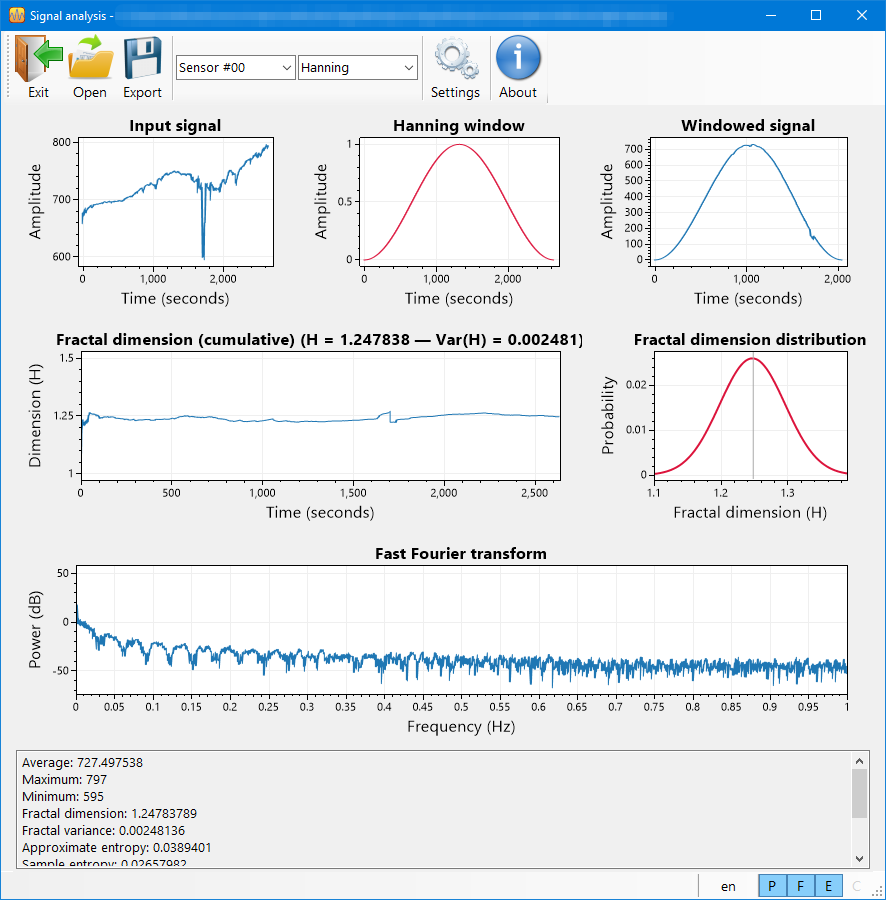
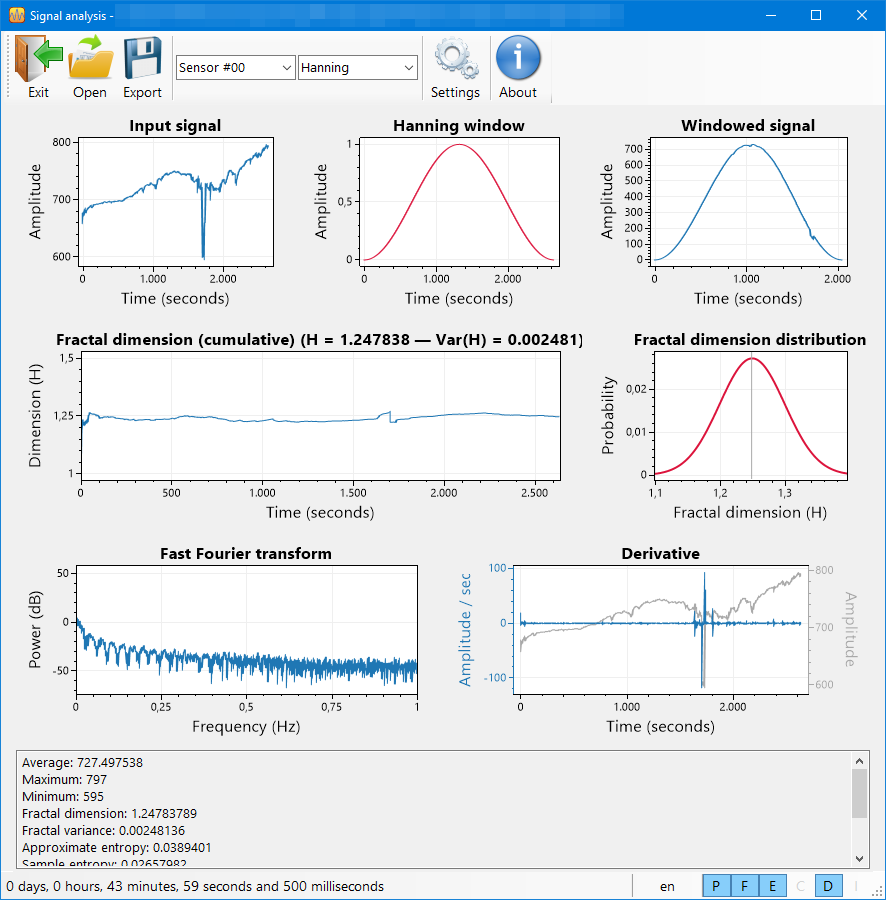
Update computations logic and screenshot

diff --git a/SignalAnalysis/UserInteractionGUI.cs b/SignalAnalysis/UserInteractionGUI.cs
@@ -52,6 +52,13 @@ partial class FrmMain
             {
                 // Data
                 Signal = signalData;
+
+                // Update UI
+                PopulateComboSeries();
+                SetFormTitle(this, openDlg.FileName);
+                UpdateUI_MeasuringTime();
+
+                // Check if computations are needed
                 if (results is not null)
                 {
                     Results = results;
@@ -60,12 +67,22 @@ partial class FrmMain
                         _settings.ComputeIntegration,
                         _settings.ComputeIntegration ? StringResources.IntegrationAlgorithms.Split(", ")[(int)_settings.IntegrationAlgorithm] : string.Empty);
                 }
-
-                // Update UI
-                PopulateComboSeries();
-                SetFormTitle(this, openDlg.FileName);
-                UpdateUI_MeasuringTime();
+                else
+                {
+                    UpdateStatsPlots(stripComboSeries.SelectedIndex,
+                                    deletePreviousResults: true,
+                                    stats: true,
+                                    derivative: _settings.ComputeDerivative,
+                                    integral: _settings.ComputeIntegration,
+                                    fractal: true,
+                                    progressive: _settings.CumulativeDimension,
+                                    entropy: _settings.Entropy,
+                                    fft: true,
+                                    powerSpectra: _settings.PowerSpectra);
+                }
             }
+
+            
 
             // Restore the cursor
             Cursor.Current = cursor;
@@ -177,6 +194,7 @@ partial class FrmMain
             UpdateUI_Language();
 
             UpdateStatsPlots(stripComboSeries.SelectedIndex,
+                deletePreviousResults: false,
                 stats: true,
                 derivative: _settings.ComputeDerivative,
                 integral: _settings.ComputeIntegration,
@@ -223,19 +241,19 @@ partial class FrmMain
                 case "statusStripLabelExPower":
                     _settings.PowerSpectra = label.Checked;
                     //ComboWindow_SelectedIndexChanged(null, EventArgs.Empty);
-                    UpdateStatsPlots(stripComboSeries.SelectedIndex, fft: true, powerSpectra: _settings.PowerSpectra);
+                    //UpdateStatsPlots(stripComboSeries.SelectedIndex, fft: true, powerSpectra: _settings.PowerSpectra);
                     break;
                 case "statusStripLabelExCumulative":
                     _settings.CumulativeDimension = label.Checked;
                     if (_settings.CumulativeDimension)
-                        UpdateStatsPlots(stripComboSeries.SelectedIndex, fractal: true, progressive: _settings.CumulativeDimension);
+                        //UpdateStatsPlots(stripComboSeries.SelectedIndex, fractal: true, progressive: _settings.CumulativeDimension);
                     if (!label.Checked && statsTask is not null && statsTask.Status == TaskStatus.Running)
                         FrmMain_KeyPress(sender, new KeyPressEventArgs((char)Keys.Escape));
                     break;
                 case "statusStripLabelExEntropy":
                     _settings.Entropy = label.Checked;
                     if (_settings.Entropy)
-                        UpdateStatsPlots(stripComboSeries.SelectedIndex, entropy: _settings.Entropy);
+                        //UpdateStatsPlots(stripComboSeries.SelectedIndex, entropy: _settings.Entropy);
                     if (!label.Checked && statsTask is not null && statsTask.Status == TaskStatus.Running)
                         FrmMain_KeyPress(sender, new KeyPressEventArgs((char)Keys.Escape));
                     break;
@@ -276,7 +294,7 @@ partial class FrmMain
                     _settings.ComputeDerivative = label.Checked;
                     if (_settings.ComputeDerivative)
                     {
-                        UpdateStatsPlots(stripComboSeries.SelectedIndex, derivative: _settings.ComputeDerivative);
+                        //UpdateStatsPlots(stripComboSeries.SelectedIndex, derivative: _settings.ComputeDerivative);
                     }
                     else
                     {
@@ -286,10 +304,83 @@ partial class FrmMain
                     break;
                 case "statusStripLabelExIntegration":
                     _settings.ComputeIntegration = label.Checked;
-                    UpdateStatsPlots(stripComboSeries.SelectedIndex, integral: _settings.ComputeIntegration);
+                    //UpdateStatsPlots(stripComboSeries.SelectedIndex, integral: _settings.ComputeIntegration);
                     break;
             }
+
+            UpdateStatsPlots(stripComboSeries.SelectedIndex,
+                        deletePreviousResults: false,
+                        stats: true,
+                        derivative: _settings.ComputeDerivative,
+                        integral: _settings.ComputeIntegration,
+                        fractal: true,
+                        progressive: _settings.CumulativeDimension,
+                        entropy: _settings.Entropy,
+                        fft: true,
+                        powerSpectra: _settings.PowerSpectra);
         }
     }
 
+    private void PopulateComboSeries(params string[] values)
+    {
+        stripComboSeries.Items.Clear();
+        if (values.Length != 0)
+        {
+            stripComboSeries.Items.AddRange(values);
+            stripComboSeries.Text = values[0];
+        }
+        else
+        {
+            stripComboSeries.Items.AddRange(Signal.SeriesLabels);
+            stripComboSeries.Text = Signal.SeriesLabels[0];
+        }
+
+    }
+
+    private void ComboSeries_SelectionChangeCommitted(object? sender, EventArgs e)
+    {
+        // Move the focus away in order to deselect the text
+        //this.tableLayoutPanel1.Focus();
+
+        if (Signal.Data.Length == 0) return;
+
+        //statusStripLabelExEntropy.Checked = false;
+        //_settings.Entropy = false;
+
+        // Update stats and plots
+        UpdateStatsPlots(stripComboSeries.SelectedIndex,
+            deletePreviousResults: false,
+            stats: true,
+            derivative: _settings.ComputeDerivative,
+            integral: _settings.ComputeIntegration,
+            fractal: true,
+            progressive: _settings.CumulativeDimension,
+            entropy: _settings.Entropy,
+            fft: true,
+            powerSpectra: _settings.PowerSpectra);
+    }
+
+    private void ComboWindow_SelectionChangeCommitted(object? sender, EventArgs e)
+    {
+        // Move the focus away in order to deselect the text
+        //this.tableLayoutPanel1.Focus();
+
+        if (stripComboSeries.SelectedIndex < 0) return;
+
+        // Extract the values 
+        var signal = Signal.Data[stripComboSeries.SelectedIndex][Signal.IndexStart..(Signal.IndexEnd + 1)];
+        if (signal is null || signal.Length == 0) return;
+
+        //UpdateWindowPlots(signal);
+        UpdateStatsPlots(stripComboSeries.SelectedIndex,
+            deletePreviousResults: true,
+            stats: false,
+            derivative: false,
+            integral: false,
+            fractal: false,
+            progressive: false,
+            entropy: false,
+            fft: true,
+            powerSpectra: _settings.PowerSpectra);
+    }
 }

diff --git a/SignalAnalysis/FrmMain.cs b/SignalAnalysis/FrmMain.cs
@@ -74,74 +74,16 @@ public partial class FrmMain : Form
             tokenSource.Cancel();
     }
 
-    private void PopulateComboSeries(params string[] values)
-    {
-        stripComboSeries.Items.Clear();
-        if (values.Length != 0)
-        {
-            stripComboSeries.Items.AddRange(values);
-            stripComboSeries.Text = values[0];
-        }
-        else
-        {
-            stripComboSeries.Items.AddRange(Signal.SeriesLabels);
-            stripComboSeries.Text = Signal.SeriesLabels[0];
-        }
 
-    }
     private void PopulateComboWindow()
     {
         IWindow[] windows = Window.GetWindows();
         stripComboWindows.Items.AddRange(windows);
         stripComboWindows.SelectedIndex = windows.ToList().FindIndex(x => x.Name == "Hanning");
+        //stripComboWindows.Text = windows[5].Name;
 
         // Move the focus away in order to deselect the text
         this.tableLayoutPanel1.Focus();
-    }
-
-    private void ComboSeries_SelectedIndexChanged(object? sender, EventArgs e)
-    {
-        // Move the focus away in order to deselect the text
-        this.tableLayoutPanel1.Focus();
-
-        if (Signal.Data.Length == 0) return;
-
-        //statusStripLabelExEntropy.Checked = false;
-        //_settings.Entropy = false;
-
-        // Update stats and plots
-        UpdateStatsPlots(stripComboSeries.SelectedIndex,
-            stats: true,
-            derivative: _settings.ComputeDerivative,
-            integral: _settings.ComputeIntegration,
-            fractal: true,
-            progressive: _settings.CumulativeDimension,
-            entropy: _settings.Entropy,
-            fft: true,
-            powerSpectra: _settings.PowerSpectra);
-    }
-
-    private void ComboWindow_SelectedIndexChanged(object? sender, EventArgs e)
-    {
-        // Move the focus away in order to deselect the text
-        this.tableLayoutPanel1.Focus();
-
-        if (stripComboSeries.SelectedIndex < 0) return;
-
-        // Extract the values 
-        var signal = Signal.Data[stripComboSeries.SelectedIndex][Signal.IndexStart..(Signal.IndexEnd + 1)];
-        if (signal is null || signal.Length == 0) return;
-
-        //UpdateWindowPlots(signal);
-        UpdateStatsPlots(stripComboSeries.SelectedIndex,
-            stats: false,
-            derivative: false,
-            integral: false,
-            fractal: false,
-            progressive: false,
-            entropy: false,
-            fft: true,
-            powerSpectra: _settings.PowerSpectra);
     }
 
     /// <summary>

diff --git a/SignalAnalysis/UpdatePlots.cs b/SignalAnalysis/UpdatePlots.cs
@@ -225,6 +225,7 @@ partial class FrmMain
     /// This is the main computing function that calls sub-functions
     /// </summary>
     /// <param name="series">Data series to be analised</param>
+    /// <param name="deletePreviousResults"><see langword="True"/> if the previous results data should be delete and new results should be reinitialised</param>
     /// <param name="stats"><see langword="True"/> if the descriptive statistics will be computed</param>
     /// <param name="derivative"><see langword="True"/> if the derivative will be computed</param>
     /// <param name="integral"><see langword="True"/> if the integral will be computed</param>
@@ -234,7 +235,7 @@ partial class FrmMain
     /// <param name="fft"><see langword="True"/></param>
     /// <param name="powerSpectra"><see langword="True"/> if the power spectra is plotted, false if the instead</param>
     /// <returns></returns>
-    private async Task UpdateStatsPlots(int series, bool stats = false, bool derivative = false, bool integral = false, bool fractal = false, bool progressive = false, bool entropy = false, bool fft = false, bool powerSpectra = false)
+    private async Task UpdateStatsPlots(int series, bool deletePreviousResults = true,  bool stats = false, bool derivative = false, bool integral = false, bool fractal = false, bool progressive = false, bool entropy = false, bool fft = false, bool powerSpectra = false)
     {
         // Clip signal data to the user-specified bounds 
         if (Signal.Data is null || Signal.Data.Length == 0) return;
@@ -253,7 +254,9 @@ partial class FrmMain
         tokenSource?.Dispose();
         tokenSource = new();
         token = tokenSource.Token;
-        Results = new();
+
+        if (deletePreviousResults)
+            Results = new();
 
         statsTask = Task.Run(() =>
         {

diff --git a/SignalAnalysis/FrmMain.Designer.cs b/SignalAnalysis/FrmMain.Designer.cs
@@ -337,7 +337,6 @@ partial class FrmMain
         stripComboSeries.Name = "stripComboSeries";
         stripComboSeries.Size = new Size(120, 27);
         stripComboSeries.ToolTipText = "Select data series";
-        stripComboSeries.SelectedIndexChanged += ComboSeries_SelectedIndexChanged;
         // 
         // stripComboWindows
         // 
@@ -352,7 +351,6 @@ partial class FrmMain
         stripComboWindows.Name = "stripComboWindows";
         stripComboWindows.Size = new Size(120, 27);
         stripComboWindows.ToolTipText = "Select FFT window";
-        stripComboWindows.SelectedIndexChanged += ComboWindow_SelectedIndexChanged;
         // 
         // toolStripSeparator2
         // 
@@ -401,7 +399,7 @@ partial class FrmMain
         statusStripLabelEmpty.BorderSides = ToolStripStatusLabelBorderSides.Right;
         statusStripLabelEmpty.DisplayStyle = ToolStripItemDisplayStyle.Text;
         statusStripLabelEmpty.Name = "statusStripLabelEmpty";
-        statusStripLabelEmpty.Size = new Size(600, 23);
+        statusStripLabelEmpty.Size = new Size(631, 23);
         statusStripLabelEmpty.Spring = true;
         statusStripLabelEmpty.TextAlign = ContentAlignment.MiddleLeft;
         // 

diff --git a/SignalAnalysis/InitializationRoutines.cs b/SignalAnalysis/InitializationRoutines.cs
@@ -19,6 +19,10 @@ partial class FrmMain
 
         this.tspTop.Join(this.toolStripMain);
 
+        // Events for ToolStripComboBox
+        stripComboSeries.ComboBox.SelectionChangeCommitted += ComboSeries_SelectionChangeCommitted;
+        stripComboWindows.ComboBox.SelectionChangeCommitted += ComboWindow_SelectionChangeCommitted;
+
         return;
     }
 
